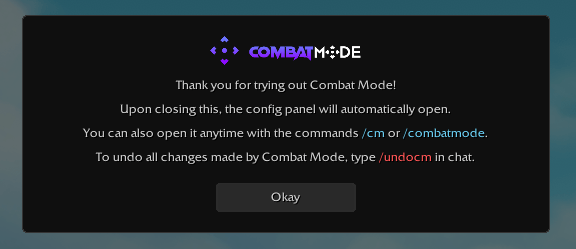
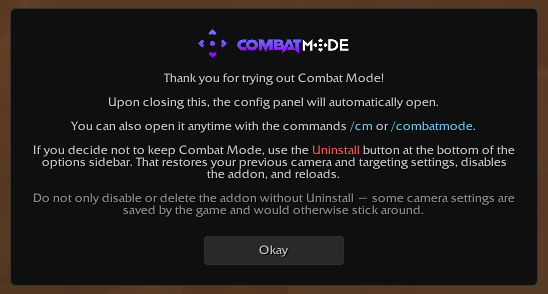
feat: added new uninstall button; now snapshotting cvars before changing

diff --git a/AGENTS.md b/AGENTS.md
@@ -27,9 +27,9 @@ This file defines how AI agents should work in this addon workspace.
 - `CombatMode/Core/`: runtime behavior modules, grouped by domain.
   - `Core/Runtime/Runtime.lua`: owns AddOn namespace (`local addonName, CM = ...`; optional `_G.CM` alias), native `CombatModeDB` → `CM.DB`, slash commands (`SlashCmdList`), lifecycle (`ADDON_LOADED` / `PLAYER_LOGIN`), cross-feature orchestration + global `CombatMode_OnUpdate`; registers events on `CombatModeFrame`; first-login welcome via deferred `CM.UI.ShowWelcome`; schedules in-game changelog when `CM.DB.global.lastSeenChangelogVersion` differs from `CM.METADATA["VERSION"]` (or always in Debug Mode) via `CM.Config.MaybeShowChangelogOnNewVersion` in `UI/Changelog/ChangelogPanel.lua`.
   - `Core/Runtime/EventRouter.lua`: centralized event dispatch + global `CombatMode_OnEvent`.
-  - `Core/Runtime/CVarManager.lua`: all CVar-writing helpers, reticle preset resolution (`CM.GetEffectiveReticleTargetingCVarValues` merges `CM.Constants.ReticleTargetingCVarValues` with account-wide `CM.DB.global.reticleTargetingCVarOverrides`; excluded keys in `CM.Constants.ReticleTargetingCVarEditorExcluded` are pruned and never overridden), and reset-to-default.
+  - `Core/Runtime/CVarManager.lua`: all CVar-writing helpers, pre-CM `priorCVarSnapshot` capture/restore, reticle preset resolution (`CM.GetEffectiveReticleTargetingCVarValues` merges `CM.Constants.ReticleTargetingCVarValues` with account-wide `CM.DB.global.reticleTargetingCVarOverrides`; excluded keys in `CM.Constants.ReticleTargetingCVarEditorExcluded` are pruned and never overridden).
   - `Core/Runtime/BindingQueue.lua`: combat-safe deferred binding updates.
-  - `Core/Runtime/Bootstrap.lua`: startup sequence (`CM.BootstrapFeatureModules`).
+  - `Core/Runtime/Bootstrap.lua`: startup sequence (`CM.BootstrapFeatureModules`) + `CM.RestorePriorBindings` (Uninstall: default left/right click camera binds).
   - `Core/FreeLook/`: mouselook/free-look state machine (`FreeLookController.lua`) and auto cursor unlock (`AutoCursorUnlock.lua`).
   - `Core/Crosshair/`: crosshair visuals (`Crosshair.lua`), Interaction HUD, Assisted Highlight, animations.
   - `Core/ClickCasting/`: binding overrides, targeting macro builder, third-party action bar resolver.
@@ -38,7 +38,7 @@ This file defines how AI agents should work in this addon workspace.
 - `CombatMode/UI/Options/`: standalone custom options window.
   - `UI/Options/Draw.lua`: theme tokens `CM.UI.Colors` / `UI.Fonts` / `UI.Radius` (minimal grey ramp + single accent yellow), `UI.StripColors`, `UI.SetFontSize`, and drawing primitives (rounded surfaces, circular knob mask, tooltip/ESC/drag helpers).
   - `UI/Options/Widgets.lua`: control factories (toggle, slider, dropdown, keybind, text/multiline, button, header, description); every value control has `:Refresh()` and registers for `CM.UI.Options.Sync()`; `UI.Confirm(text, onAccept)` (Yes/No) and `UI.Notify(text, onClose)` (single Okay) share the themed modal `CombatModeConfirmDialog`; `UI.ShowWelcome` owns the dedicated first-install modal `CombatModeWelcomeDialog` (not in `UISpecialFrames`); any toggle/button with `confirm = true` routes through `UI.Confirm`.
-  - `UI/Options/OptionsPanel.lua`: `CombatModeOptionsFrame` window shell + sidebar + layout `ctx`; `CM.OpenOptions`/`ToggleOptions`/`CloseOptions` (combat-guarded), `CM.GetOptionsFrame`, `CM.UI.CreateWindow`/`CM.UI.NewLayout`, and `CM.UI.Options.AddTab`. Always docks left-of-center on open (`Options.DockWindowLeft`) so the crosshair/radial stay clear. Sidebar footer (`BuildSidebarFooter`) holds Silence Alerts / Debug Mode toggles + View Changelog / Reset to Defaults buttons.
+  - `UI/Options/OptionsPanel.lua`: `CombatModeOptionsFrame` window shell + sidebar + layout `ctx`; `CM.OpenOptions`/`ToggleOptions`/`CloseOptions` (combat-guarded), `CM.GetOptionsFrame`, `CM.UI.CreateWindow`/`CM.UI.NewLayout`, and `CM.UI.Options.AddTab`. Always docks left-of-center on open (`Options.DockWindowLeft`) so the crosshair/radial stay clear. Sidebar footer (`BuildSidebarFooter`) holds Silence Alerts / Debug Mode toggles + View Changelog / Reset to Defaults / Uninstall buttons.
   - `UI/Options/BlizzardSettingsBridge.lua`: Escape → Options → AddOns → Combat Mode canvas category with an Open Options button that calls `CM.OpenOptions` (settings still live in the standalone window).
   - `UI/Options/Tabs/Tab*.lua`: per-category tab builders (General, Crosshair, ReticleTargeting, ClickCasting, AutoCursorUnlock, Camera, PartyRadial) wiring get/set/disabled to `CM.*` + `CM.DB`. Optional `onSelect`/`onDeselect` hooks fire on tab switch and window show/hide; `TabCrosshair` uses them with `CM.SetCrosshairOptionsPreview` to preview the reticle, Interaction HUD, and Combat Assist live; `TabPartyRadial` uses them with `CM.PartyRadial.SetOptionsPreview` so Party Radial Visual Settings preview live.
 - `CombatMode/UI/Changelog/`: in-game changelog viewer.

diff --git a/.context/patterns.md b/.context/patterns.md
@@ -12,7 +12,7 @@ Suggested buckets (map to existing rules):
 
 ## CombatMode-specific reminders
 
-- **Mouselook / free-look / CVars:** free-look state machine lives in `Core/FreeLook/FreeLookController.lua`; **all addon-owned `SetCVar` writes route through** `Core/Runtime/CVarManager.lua` (`CM.SetCVar*` helpers). Modules should compute/decide values locally, then call the manager to perform the write. Keep enable/disable paths symmetric.
+- **Mouselook / free-look / CVars:** free-look state machine lives in `Core/FreeLook/FreeLookController.lua`; **all addon-owned `SetCVar` writes route through** `Core/Runtime/CVarManager.lua` (`CM.SetCVar*` helpers). Each enable/bootstrap calls `CM.CapturePriorCVarSnapshot()` *before* CM writes, refreshing `CM.DB.global.priorCVarSnapshot` for that session; later `EnsurePriorCVarSnapshot` / `SetCVar` do not overwrite it mid-session. `CM.RestorePriorCVars` / `CM.UninstallCombatMode` restore that snapshot; Uninstall also resets `BUTTON1`/`BUTTON2` to Blizzard camera defaults (`CAMERAORSELECTORMOVE` / `TURNORACTION`) and does not clear Combat Mode keybind names. Keep enable/disable paths symmetric.
 - **Free-look / OPie / CursorFreelookCentering:** lock applies centering with the Party Radial pattern: force CVar `0` → `MouselookStart` → deferred `1`. Writing `1` mid-look (or starting while already `1`) can leave the cursor visible (10.2 quirk noted in `Constants/CVars.lua`). OPie `MouselookStop`s itself and `AutoCursorUnlock` frees centering; `CM.NotifyOpieUnlockFrameVisible` latches that, and Runtime calls `CM.RematchFreeLookAfterOpieIfNeeded()` on the next “should be locked” tick to bounce rematch. Prefer this over mid-look CVar writes.
 - **Override bindings / secure buttons:** follow existing `SecureActionButtonTemplate` and `Core/ClickCasting/BindingOverrides.lua` patterns.
 - **Options UI:** settings live in a **standalone custom window** (`CombatModeOptionsFrame`, opened by `CM.OpenOptions()` / `/cm`), **not** embedded Blizzard settings. Escape → Options → AddOns → Combat Mode is only a bridge (`UI/Options/BlizzardSettingsBridge.lua`) with an Open Options button. Build tabs in `UI/Options/Tabs/Tab*.lua` with the `ctx:Toggle/Slider/Dropdown/Keybind/TextInput/Button/Card` helpers; wire get/set/disabled closures to existing `CM.*` APIs + `CM.DB`. Every value control auto-registers with `CM.UI.Options.Sync()` — call `Options.Sync()` (widgets do this after set) so dependent `disabled` states refresh. Toolkit primitives are in `UI/Options/Draw.lua` (theme tokens `CM.UI.Colors` / `UI.Fonts` / `UI.Radius`) + `UI/Options/Widgets.lua`; standalone editors reuse `CM.UI.CreateWindow`. The theme is deliberately monochrome: all text renders at `UI.Fonts.base` with inline `|cff..|` markup stripped by `UI.StripColors`, and the accent yellow is reserved for section headers, the selected tab, and toggle on-states (grey when off) — do not reintroduce per-feature colors in tab builders.

diff --git a/STRUCTURE.md b/STRUCTURE.md
@@ -14,7 +14,7 @@ from [`CombatMode/CombatMode.toc`](CombatMode/CombatMode.toc)).
 
 ## Load order (scripts)
 
-1. **CombatMode/Core/Runtime/Runtime.lua** — receives the AddOn namespace (`local addonName, CM = ...`), optional `_G.CM` alias, registers `ADDON_LOADED` / `PLAYER_LOGIN` lifecycle, native `CombatModeDB` merge, and slash commands (`/cm`, `/combatmode`, `/undocm`).
+1. **CombatMode/Core/Runtime/Runtime.lua** — receives the AddOn namespace (`local addonName, CM = ...`), optional `_G.CM` alias, registers `ADDON_LOADED` / `PLAYER_LOGIN` lifecycle, native `CombatModeDB` merge, and slash commands (`/cm`, `/combatmode`).
 2. **CombatMode/Constants/** — constants/data modules initialize `CM.Constants` and must load before feature consumers (`Namespace.lua` first).
 3. **CombatMode/Core/Runtime/** — remaining runtime support scripts:
    - **EventRouter.lua** (event routing + `_G.CombatMode_OnEvent`)
@@ -28,6 +28,6 @@ from [`CombatMode/CombatMode.toc`](CombatMode/CombatMode.toc)).
 
 ## Public entry points
 
-- **Slash:** `/cm`, `/combatmode`, `/undocm` (Core/Runtime).
+- **Slash:** `/cm`, `/combatmode` (Core/Runtime). Uninstall is the options sidebar button (`CM.UninstallCombatMode`), not a slash command.
 - **Options:** standalone movable window `CombatModeOptionsFrame` opened by `CM.OpenOptions()` (bound to `/cm`, the first-login popup, and Escape → Options → AddOns → Combat Mode via `UI/Options/BlizzardSettingsBridge.lua`); tabs registered via `CM.UI.Options.AddTab` in `UI/Options/Tabs/`.
 - **Changelog (in-game):** `CM.Config.ShowChangelog()` (sidebar footer → View Changelog, or auto after version bump via `Core/Runtime/Runtime.lua` + `CM.Config.MaybeShowChangelogOnNewVersion`); body string `CM.Config.ChangelogText` in `UI/Changelog/ChangelogData.lua`, maintained from `CombatMode/CHANGELOG.md` with `scripts/sync-changelog-to-lua.ps1`.

diff --git a/CombatMode/CHANGELOG.md b/CombatMode/CHANGELOG.md
@@ -11,7 +11,18 @@ and this project adheres to [Semantic Versioning](https://semver.org/spec/v2.0.0
 
 ### Added
 
+- Uninstall button in the options sidebar: restores your pre-Combat Mode camera and targeting CVars, resets Left/Right Click to the default camera binds, disables the addon, and reloads.
+- Combat Mode now snapshots your CVars before changing them, so Uninstall can restore *your* settings instead of only hard-coded Blizzard defaults.
 - Changelog window now has a left-hand version list; click a version to scroll to that section.
+
+### Changed
+
+- Welcome popup now clarifies the difference between deleting the addon folder and and fully uninstalling.
+
+### Removed
+
+- `/undocm` slash command — use the Uninstall button in options instead.
+
 
 ## [4.0.1] - 2026-07-27
 

diff --git a/TESTING.md b/TESTING.md
@@ -49,7 +49,7 @@ Use this checklist for feature work and regressions.
 
 ## Quick regression pass
 
-- Slash commands: `/cm`, `/combatmode`, `/undocm`.
+- Slash commands: `/cm`, `/combatmode`.
 - Keybinds still function after reload and after disabling/re-enabling addon.
 - No Lua errors in normal use paths for edited features.
 - If keybind writes were changed, verify in-combat changes defer and apply automatically after leaving combat.
